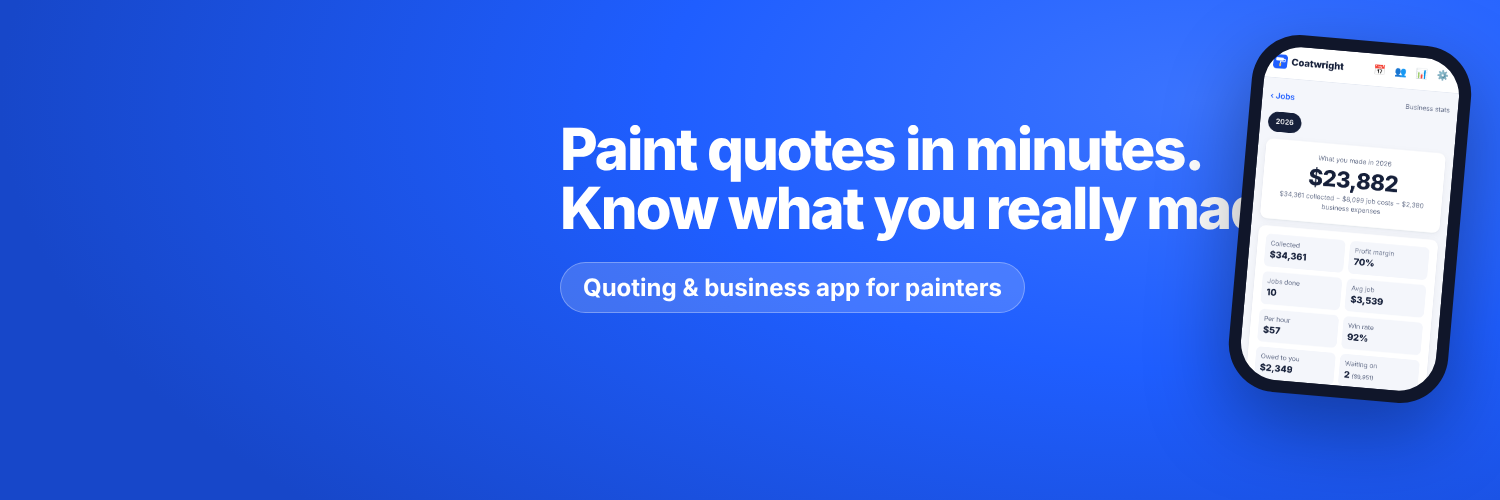
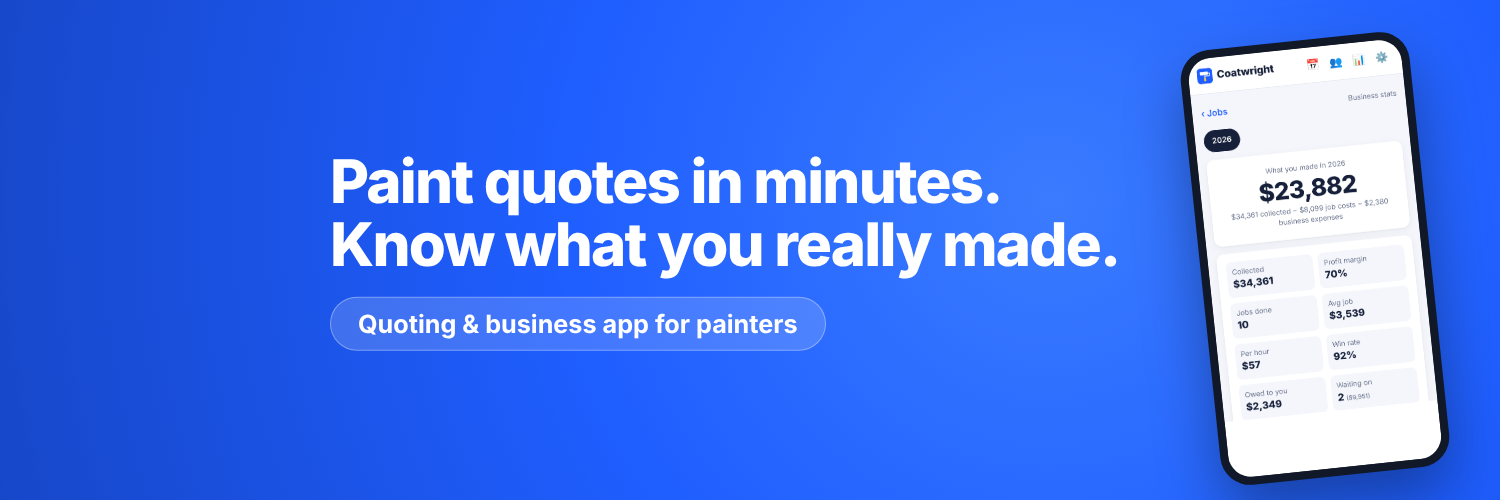
Social kit: LinkedIn step-by-step (Page, Founder & CEO profile, launch post) (#27)
New LinkedIn banner and company cover; X header redrawn so the phone no
longer covers the headline.

Claude-Session: https://claude.ai/code/session_01Eh6GJjR9t7mWQMkxKTt9jH

Changed region(s): [[0.2147, 0.06, 1.0, 1.0], [0.184, 0.78, 0.644, 1.0]]

diff --git a/marketing/SOCIAL_SETUP.md b/marketing/SOCIAL_SETUP.md
@@ -25,6 +25,8 @@ Open each link on your phone, **press and hold the image → Save to Photos** (i
 | Facebook cover | https://getcoatwright.com/marketing/social/facebook-cover.png | Facebook Page |
 | YouTube banner | https://getcoatwright.com/marketing/social/youtube-banner.png | YouTube |
 | X header | https://getcoatwright.com/marketing/social/x-header.png | X (Twitter) |
+| LinkedIn banner (your profile) | https://getcoatwright.com/marketing/social/linkedin-banner.png | Your personal LinkedIn |
+| LinkedIn company cover | https://getcoatwright.com/marketing/social/linkedin-company-cover.png | Coatwright LinkedIn Page |
 | First post | https://getcoatwright.com/marketing/social/first-post.png | Instagram & Facebook |
 | Demo video 1 | https://getcoatwright.com/marketing/videos/coatwright-demo-quote.mp4 | Posts on every platform |
 | Demo video 2 | https://getcoatwright.com/marketing/videos/coatwright-demo-stats.mp4 | Posts on every platform |
@@ -32,7 +34,8 @@ Open each link on your phone, **press and hold the image → Save to Photos** (i
 
 Also have your **password manager** ready (iPhone Passwords app or Google Password Manager) to save each new password.
 
-**Order:** Instagram → Facebook Page → TikTok → YouTube → X. About 5–10 minutes each.
+**Order:** Instagram → Facebook Page → TikTok → YouTube → X → LinkedIn. About 5–10 minutes each.
+LinkedIn is easiest on a computer (save the two LinkedIn images there).
 
 ---
 
@@ -202,6 +205,113 @@ The quoting & business app for painters. Itemized quotes in minutes, invoices, a
 
 ---
 
+## 6. LinkedIn (your profile as Founder & CEO, plus a Coatwright Page)
+
+LinkedIn is where people look you up before trusting a new company. Do it in this order: **A** create the Coatwright Page,
+**B** update your own profile, **C** post the launch announcement. About 20 minutes.
+
+> **Title: "Founder & CEO", not "Software Developer".** "Founder" already says you built the company. "Software developer"
+> means someone who codes professionally; if asked technical questions it won't hold up and it can make the rest of your
+> profile look less believable. It's honest (and common now) to say you built the product with **AI-assisted development**.
+
+### A. Create the Coatwright Page (company page)
+
+On linkedin.com, signed in to **your personal account**: **For Business** (grid icon, top right) → **Create a Company Page** → **Company**.
+
+| Screen asks | Your answer |
+|---|---|
+| Name | `Coatwright` |
+| LinkedIn public URL | `coatwright` (or `coatwrightapp` if taken) |
+| Website | `https://getcoatwright.com/` |
+| Industry | **Software Development** |
+| Organization size | **0–1 employees** |
+| Organization type | **Privately held** (or **Self-employed**) |
+| Logo | **profile picture** |
+| Tagline | `The quoting & business app for painters` |
+| Verification checkbox | Tick ("I verify that I am an authorized representative…") → **Create page** |
+
+Then on the new Page → **Edit page**:
+- **Cover image:** **LinkedIn company cover**
+- **Description (About):**
+
+```
+Coatwright is the quoting and business app for painting contractors. Price any paint job in minutes (interior, exterior, cabinets, garage floors and commercial) and send your customer a clean, itemized quote with your logo. Then track every job, invoice, payment and dollar of profit from your phone.
+
+Works in your own currency. Try it free for 14 days, no credit card needed: getcoatwright.com
+```
+
+- **Location:** your city/region (or leave blank)
+- **Custom button:** **Visit website** → `https://getcoatwright.com/`
+
+### B. Update your personal profile
+
+Go to your profile (**Me → View profile**).
+
+1. **Banner:** click the pencil on the background image → upload **LinkedIn banner** → Apply.
+2. **Headline** (pencil next to your name → Headline):
+
+```
+Founder & CEO at Coatwright | Quoting and business software for painting contractors
+```
+
+3. Same screen → **Website:** `https://getcoatwright.com/`, link text **Coatwright** → Save.
+4. **Add position:** **Add profile section → Core → Add position**:
+
+| Field | Enter |
+|---|---|
+| Title | `Founder & CEO` |
+| Employment type | **Self-employed** |
+| Company | Start typing `Coatwright` and pick **your Page** (so the logo shows) |
+| Currently working here | ✓ |
+| Start date | **November 2026** |
+| Location | Your city/region, or **Remote** |
+| Location type | **Remote** |
+| Description | (below) |
+| Skills | Product Management, Entrepreneurship, Go-to-Market Strategy, Software as a Service (SaaS) |
+| Notify network | **On** (people see the update) |
+
+```
+Founded Coatwright, a phone-first app that helps painting contractors price jobs in minutes and run their business.
+• Itemized quotes for interior, exterior, cabinets, floors and commercial work, sent to customers by email or text
+• Invoices, payment tracking, scheduling, customer list and real profit per job
+• Launched with a 14-day free trial and subscription plans; works worldwide in local currencies
+• Led product, design and go-to-market; built the product with AI-assisted development
+getcoatwright.com
+```
+
+5. **About** (optional, Add profile section → Core → Add about):
+
+```
+I'm building Coatwright to give independent painters the tools big companies have: fast, professional quotes and a clear view of what each job really earns. If you run a painting business, I'd love your feedback. Try it free at getcoatwright.com.
+```
+
+6. **Open to → Providing services** is not needed; skip.
+
+### C. Launch post (from your personal profile)
+
+**Start a post** → attach the **Explainer** video → paste:
+
+```
+Today I'm launching Coatwright 🎨
+
+Painters lose hours (and money) pricing jobs by hand. Coatwright lets a painter walk a house, tap in the rooms and send the customer a clean, itemized quote in minutes. Then it tracks every job, invoice, payment and the real profit, all from their phone.
+
+The first 100 subscribers get half price for life as founding members.
+
+If you know a painter or contractor, I'd really appreciate a share or a tag. 🙏
+Try it free for 14 days: https://getcoatwright.com/
+
+#smallbusiness #contractors #painting #startup #founder
+```
+
+Then: share the same post from the **Coatwright Page** (… on your post → **Repost**, or post it from the Page), and
+**invite your connections to follow the Page** (Page → **Grow → Invite to follow**; LinkedIn gives free invites each month).
+
+### Protect it
+**Me → Settings & Privacy → Sign in & security → Two-step verification → On**.
+
+---
+
 ## After each account: protect it (1 min each)
 
 Turn on **two-factor authentication** (2FA). Use an authenticator app or text messages to your personal phone:
@@ -211,6 +321,7 @@ Turn on **two-factor authentication** (2FA). Use an authenticator app or text me
 - **TikTok:** Settings and privacy → Security → 2-step verification
 - **YouTube:** protected by the Google account: turn on 2-Step Verification for coatwrightapp@gmail.com
 - **X:** Settings → Security and account access → Security → Two-factor authentication
+- **LinkedIn:** Me → Settings & Privacy → Sign in & security → Two-step verification
 
 ---
 
@@ -258,5 +369,8 @@ Your real profit, real hourly rate and win rate, all from the jobs you already q
 - [ ] TikTok: business account, bio, photo, first video pinned
 - [ ] YouTube: channel, handle, picture, banner, description, link, first Short
 - [ ] X: name reserved, photo, header, bio
+- [ ] LinkedIn: Coatwright Page (logo, cover, about, button)
+- [ ] LinkedIn: your headline, banner, website, Founder & CEO position linked to the Page
+- [ ] LinkedIn: launch post with the explainer, shared from the Page, connections invited
 - [ ] Two-factor authentication on every account
 - [ ] Tell Claude the usernames you got, so the website can link to them

diff --git a/PROGRESS.md b/PROGRESS.md
@@ -234,3 +234,4 @@ Legend: ✅ done · 🔄 in progress · ⬜ not started
 - **2026-11-15** — Owner set Stripe emails, ran billing.sql, deployed stripe-webhook (JWT verification off), added the Stripe webhook destination (5 events) and the two secrets. Webhook now prefers Supabase's newer secret key (SUPABASE_SECRET_KEYS) over the deprecated service role key.
 - **2026-11-15** — Owner redeployed the webhook (JWT off). Billing switched on: trials run from Nov 15, 2026; plans screen live with Stripe Payment Links.
 - **2026-11-15** — Owner skipped the test purchase for now. First trials end Nov 29, 2026, so the first possible renewal-driven sale is then (anyone can still buy earlier).
+- **2026-11-15** — Added LinkedIn to the social kit (Coatwright Page, Founder & CEO profile, launch post) with new LinkedIn banner and company cover; fixed the X header (phone covered the headline).
